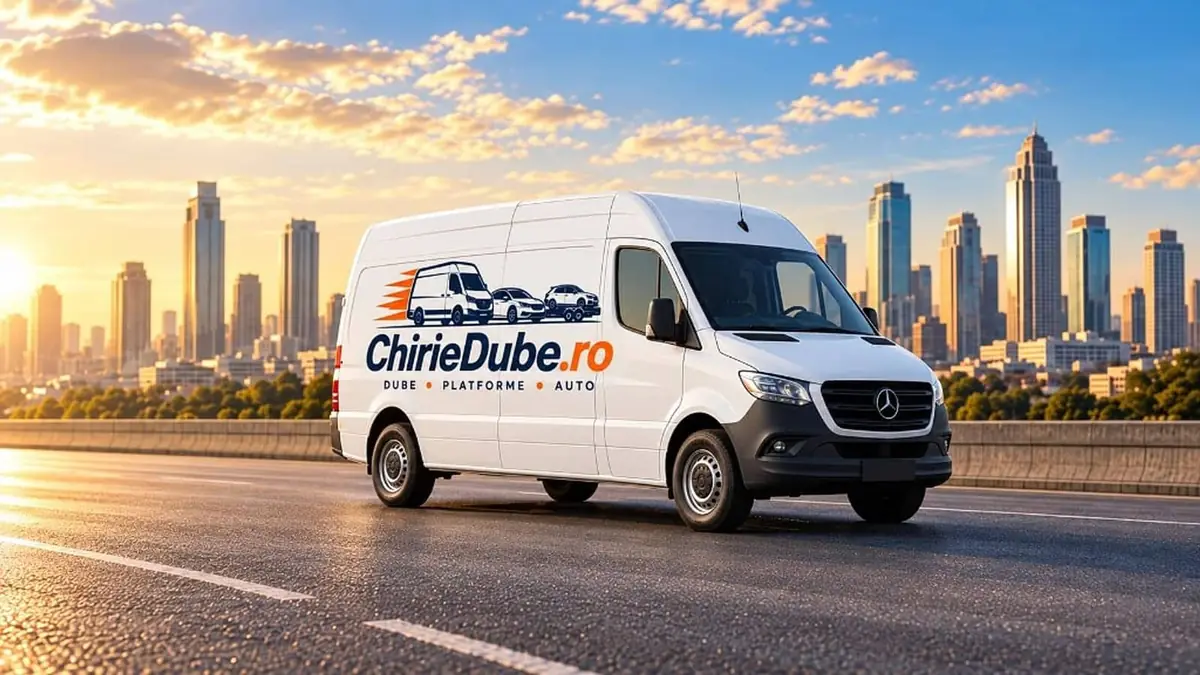
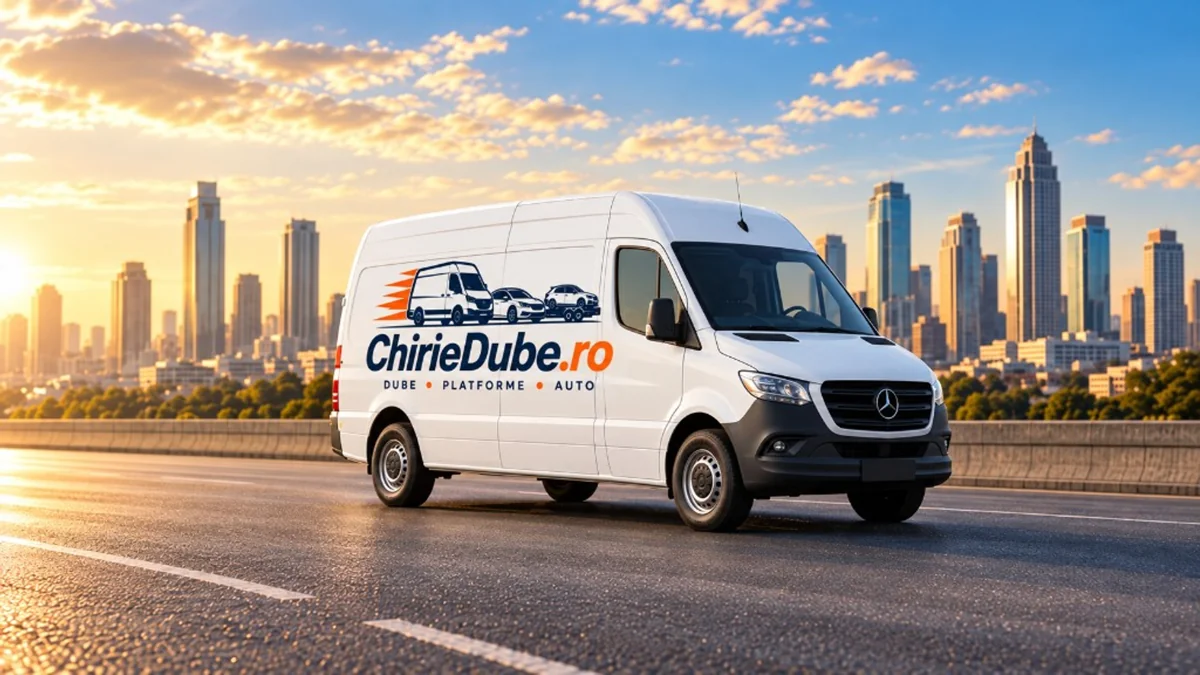
Fix hero copy fit and restore sharp desktop image quality.
Widen the text column, keep „simplu și rapid” together, and regenerate WebPs from the HQ source up to 2400w instead of the soft LCP compressions.

diff --git a/components/Hero.tsx b/components/Hero.tsx
@@ -5,8 +5,8 @@ import FeaturesBar from "./FeaturesBar";
 import SectionLabel from "./SectionLabel";
 
 export default function Hero() {
-  // Inject early image preload (before parse reaches deep JSON-LD / chrome)
-  preload("/images/hero-lcp-480.webp", {
+  // Mobile LCP: sharp enough 800w (not the mushy 480-only path)
+  preload("/images/hero-lcp-800.webp", {
     as: "image",
     type: "image/webp",
     fetchPriority: "high",
@@ -14,26 +14,26 @@ export default function Hero() {
 
   return (
     <section id="acasa" className="relative overflow-x-clip bg-white">
-      <div className="relative w-full overflow-hidden bg-white sm:h-[392px] lg:h-[420px]">
-        <div className="relative h-[min(36vh,250px)] min-h-[140px] sm:absolute sm:inset-y-0 sm:right-0 sm:left-auto sm:h-auto sm:min-h-0 sm:w-[72%] lg:w-[70%]">
+      <div className="relative w-full overflow-hidden bg-white sm:h-[520px] lg:h-[560px]">
+        <div className="relative h-[min(36vh,250px)] min-h-[160px] sm:absolute sm:inset-y-0 sm:right-0 sm:left-auto sm:h-auto sm:min-h-0 sm:w-[68%] lg:w-[66%]">
           <div className="absolute inset-0">
             <picture>
-              {/* Force the light 480w file on phones — DPR would otherwise pick 800/1200 */}
               <source
                 media="(max-width: 639px)"
-                srcSet="/images/hero-lcp-480.webp"
+                srcSet="/images/hero-lcp-640.webp 640w, /images/hero-lcp-800.webp 800w, /images/hero-lcp-960.webp 960w"
+                sizes="100vw"
                 type="image/webp"
               />
               <img
-                src="/images/hero-lcp-800.webp"
-                srcSet="/images/hero-lcp-800.webp 800w, /images/hero-lcp-1200.webp 1200w, /images/hero-lcp.webp 1600w"
-                sizes="72vw"
+                src="/images/hero-lcp.webp"
+                srcSet="/images/hero-lcp-1200.webp 1200w, /images/hero-lcp.webp 1600w, /images/hero-lcp-2400.webp 2400w"
+                sizes="(max-width: 1024px) 70vw, 66vw"
                 alt="Dubă ChirieDube pe șosea, la apus, disponibilă pentru închiriere"
-                width={800}
-                height={450}
+                width={1600}
+                height={900}
                 fetchPriority="high"
-                decoding="sync"
-                className="absolute inset-0 h-full w-full object-cover object-[58%_48%] sm:object-[55%_50%]"
+                decoding="async"
+                className="absolute inset-0 h-full w-full object-cover object-[58%_48%] sm:object-[52%_50%]"
               />
             </picture>
           </div>
@@ -49,28 +49,31 @@ export default function Hero() {
 
           <div
             aria-hidden
-            className="pointer-events-none absolute inset-y-0 left-0 hidden w-[42%] sm:block"
+            className="pointer-events-none absolute inset-y-0 left-0 hidden w-[36%] sm:block"
             style={{
               background:
-                "linear-gradient(90deg, #ffffff 0%, rgba(255,255,255,0.92) 32%, rgba(255,255,255,0.4) 68%, transparent 100%)",
+                "linear-gradient(90deg, #ffffff 0%, rgba(255,255,255,0.9) 28%, rgba(255,255,255,0.35) 65%, transparent 100%)",
             }}
           />
         </div>
 
         <div className="pointer-events-none absolute inset-x-0 bottom-0 hidden h-14 bg-gradient-to-t from-white/40 to-transparent sm:block" />
 
-        <div className="relative z-10 mx-auto -mt-16 flex w-full max-w-6xl px-4 pb-1 sm:mt-0 sm:h-full sm:items-center sm:px-6 sm:pb-28 sm:pt-6 lg:px-8 lg:pb-32">
-          <div className="max-w-xl sm:pl-2 lg:max-w-[42%] lg:pl-4">
+        {/* Full-bleed gutters like before — text left, room to breathe, no squeeze into the van */}
+        <div className="relative z-10 mx-auto -mt-14 flex w-full max-w-[1400px] px-4 pb-1 sm:mt-0 sm:h-full sm:items-center sm:px-8 sm:pb-24 sm:pt-6 lg:px-10 lg:pb-28">
+          <div className="w-full max-w-[22rem] sm:max-w-[28rem] lg:max-w-[32rem]">
             <SectionLabel icon={MapPin}>
               Închirieri dube în toată România
             </SectionLabel>
 
-            <h1 className="mt-2 text-[24px] font-extrabold leading-[1.08] tracking-tight text-ink sm:mt-4 sm:text-[3.18rem] lg:text-[3.71rem]">
-              Închiriază o dubă simplu și{" "}
-              <span className="text-brand">rapid</span>
+            <h1 className="mt-2 text-[26px] font-extrabold leading-[1.1] tracking-tight text-ink sm:mt-4 sm:text-[2.65rem] lg:text-[3.05rem]">
+              Închiriază o dubă{" "}
+              <span className="whitespace-nowrap">
+                simplu și <span className="text-brand">rapid</span>
+              </span>
             </h1>
 
-            <p className="mt-2 line-clamp-3 max-w-lg text-[12px] leading-relaxed text-muted sm:mt-4 sm:line-clamp-none sm:text-[1.2rem] lg:text-[1.3rem]">
+            <p className="mt-2 max-w-md text-[13px] leading-relaxed text-muted sm:mt-4 sm:text-[1.05rem] lg:text-[1.125rem]">
               Dube moderne, fiabile și gata de drum pentru mutări, transport
               marfă și proiecte profesionale. Rezervare rapidă, prețuri
               corecte și suport prompt.
@@ -79,17 +82,17 @@ export default function Hero() {
             <div className="mt-3.5 grid grid-cols-2 gap-2 sm:mt-7 sm:flex sm:items-center sm:gap-3">
               <a
                 href="/flota"
-                className="inline-flex h-[31px] items-center justify-center gap-2 rounded-xl bg-brand px-3 text-[12px] font-extrabold text-white transition hover:bg-brand-dark sm:h-auto sm:gap-2.5 sm:px-6 sm:py-3.5 sm:text-[13px]"
+                className="inline-flex h-[40px] items-center justify-center gap-2 rounded-xl bg-brand px-3 text-[13px] font-extrabold text-white transition hover:bg-brand-dark sm:h-auto sm:gap-2.5 sm:px-6 sm:py-3.5 sm:text-[15px]"
               >
-                <Truck className="size-[13px] sm:size-5" strokeWidth={2.2} aria-hidden />
+                <Truck className="size-[16px] sm:size-5" strokeWidth={2.2} aria-hidden />
                 Vezi flota
                 <ArrowRight className="hidden size-4 sm:block" strokeWidth={2.4} aria-hidden />
               </a>
               <a
                 href={contact.phoneHref}
-                className="inline-flex h-[31px] items-center justify-center gap-2 rounded-xl border-[1px] border-brand bg-white px-3 text-[12px] font-extrabold text-brand transition hover:bg-brand-soft sm:h-auto sm:gap-2.5 sm:px-6 sm:py-3.5 sm:text-[13px]"
+                className="inline-flex h-[40px] items-center justify-center gap-2 rounded-xl border-[1.5px] border-brand bg-white px-3 text-[13px] font-extrabold text-brand transition hover:bg-brand-soft sm:h-auto sm:gap-2.5 sm:px-6 sm:py-3.5 sm:text-[15px]"
               >
-                <Phone className="size-[13px] sm:size-5" strokeWidth={2.2} aria-hidden />
+                <Phone className="size-[16px] sm:size-5" strokeWidth={2.2} aria-hidden />
                 Sună acum
               </a>
             </div>
@@ -98,7 +101,7 @@ export default function Hero() {
       </div>
 
       <div className="relative z-20 mx-auto max-w-6xl px-4 sm:px-6 lg:px-8">
-        <div className="mt-3 sm:-mt-[36px]">
+        <div className="mt-3 sm:-mt-[44px]">
           <FeaturesBar />
         </div>
       </div>
